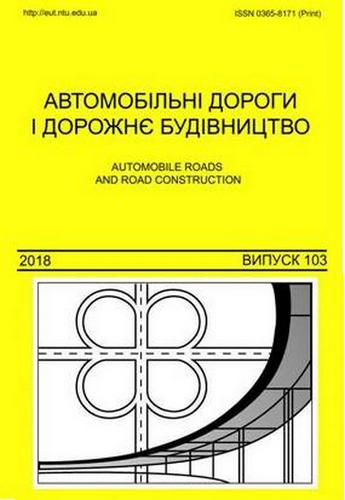
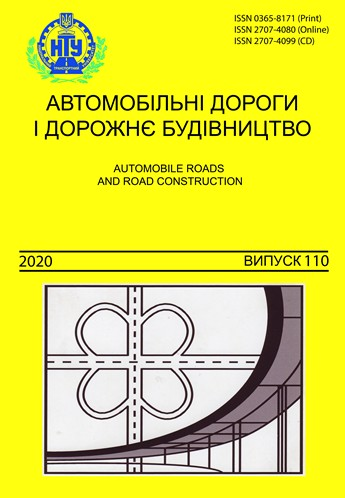
edit home

diff --git a/index.html b/index.html
@@ -93,55 +93,143 @@
 
           <!-- Preview Image -->
          <!-- <img class="img-medium rounded" src="images/upr-proekt.jpg" alt=""> --> <!--  img-fluid http://placehold.it/900x300-->
+         <div class="row">
+          <div class="col-lg-4">
+              <strong>ISSN 0365-8171 (Print)</strong>
+          </div>
 
-        <!--  <hr> -->
-               <h2 class="mt-4">Науково-технічний збірник “АВТОМОБІЛЬНІ ДОРОГИ І ДОРОЖНЄ БУДІВНИЦТВО”</h2>     
+          <div class="col-lg-4">
+            <strong>ISSN 2707-4080 (Оnline)</strong>
+          </div>
+          <div class="col-lg-4">
+            <strong>ISSN 2707-4099 (CD)</strong>
+          </div>
+      </div>
+          <hr> 
+
+          <div class="row">
+            <div class="col-lg-6">
+                <strong>Автомобільні дороги і дорожнє будівництво,</strong><br>
+                <strong>Науково-технічний збірник, </strong><br>
+                <strong>Випуск 110, 2020</strong><br>
+                <strong>Веб-сайт журналу: http://addb.ntu.edu.ua</strong><br>
+            </div>
+  
+            <div class="col-lg-6">
+              <strong>Заснований у 1964 році. </strong><br>
+              <strong>Свідоцтво суб’єкта видавничої справи </strong><br>
+              <strong>ДК № 1218 від 30.01.2003 р. </strong><br>
+            </div>
+        </div>
+        <hr> 
+                
           <!-- Post Content -->
-            
-            <p><strong>ISSN 0365-8171 (Print), URL: http://addb.ntu.edu.ua</strong></p>
+               
+           <img class="img-fluid float-left" src="images/avt-dorogi-bud-big1.jpg" alt="" > 
+               <p align="justify" >
+              У науково-технічному збірнику “Автомобільні дороги і дорожнє будівництво” відображені матеріали та наукові розробки вчених і спеціалістів 
+              дорожньо-будівельного комплексу, наукових установ і промисловості з вирішення сучасних задач та проблем з напрямків: Будівництво та цивільна 
+              інженерія; Геодезія та землеустрій; Гідротехнічне будівництво, водна інженерія та водні технології, Технології захисту навколишнього середовища, 
+              Екологічна безпека, Менеджмент, Маркетинг; Підприємництво, торгівля та біржова діяльність, Управління проектами і системний аналіз, 
+              Транспортні технології (за видами),  Економіка (за видами економічної діяльності).
+              </p>  
 
-            <p >Заснований у 1964 році</p>
-            <p><strong>Засновник:</strong> Національний транспортний університет</p>
-            <p align="justify">Свідоцтво про державну реєстрацію журналу – <strong>серія КВ № 9784 від 21.04.2005 р.</strong>, видане Державним комітетом телебачення та радіомовлення України.</p>
-           
-            <p><strong>Мова видання:</strong> українська, російська, англійська</p>
-            <p><strong>Тематика:</strong> Технічні науки</p>
+            <p align="justify">Друкується науково-технічний збірник “Автомобільні дороги і дорожнє будівництво” за рішенням Вченої ради Національного транспортного університету. 
+              Друковані примірники розповсюджуються серед: державних і провідних бібліотек України, провідних навчальних, наукових, науково-дослідних та проектних закладів дорожньо-транспортного спрямування; 
+              підприємств з будівництва, реконструкції, ремонту та експлуатації автомобільних доріг і аеродромів; установ до яких обов’язково повинні надсилатися видання, в яких опубліковані основні результати 
+              дисертаційних робіт
+               (<strong>Наказом Міністерства освіти і науки України від 11.07.2016 № 820 збірник включений до Переліку наукових фахових видань України</strong>).</p>
             
-            <div class="row">
-                        <div class="col-lg-6">
-                            <ul class="list-unstyled">
-                                <li ><p align="center"><img class="img-fluid rounded" src="images/avt-dorogi-bud-big.jpg" alt=""></p>
-                                </li>
-                                <li><p align="center" class="small">
-                                    </p>
-                                </li>
-                                
-                            </ul>
-                        </div>
-                        <div class="col-lg-6">
-                            <ul class="list-unstyled">
-                                <li><p align="center"><img class="img-fluid rounded" src="images/avt-dorogi-bud-1.jpg" alt=""></p>
-                                </li>
-                                <li><p align="center" class="small">
-                                    </p>
-                                </li>
-                               
-                            </ul>
-                        </div>
-                    </div>
-            <!-- /.row -->
-
-            <p align="justify">Мета видання науково-технічного збірника “Автомобільні дороги і дорожнє будівництво” – висвітляння результатів теоретичних та експериментальних досліджень в галузях: розвідування, проектування доріг та переходів через водотоки; дорожньо-будівельні матеріали та вироби; будівництво та експлуатація доріг і аеродромів; економіка дорожньо-будівельного виробництва, технічна експертиза та оцінка майна; будівельна механіка та системний аналіз; транспортні споруди; транспортні технології та безпека руху; дорожньо-будівельна техніка та виробнича база будівництва; екологія та охорона навколишнього середовища тощо.</p>
-            
-            <p align="justify">Науково-технічний збірник призначений для науковців, працівників науково-дослідних інститутів, проектних і будівельних організацій, а також викладачів і студентів ВНЗ.</p>
-            
-            <p align="justify">
-                Друковані примірники розповсюджуються серед: державних і провідних бібліотек України, провідних навчальних, наукових, науково-дослідних та проектних закладів дорожньо-транспортного спрямування; підприємств з будівництва, реконструкції, ремонту та експлуатації автомобільних доріг і аеродромів; установ до яких обов’язково повинні надсилатися видання, в яких опубліковані основні результати дисертаційних робіт (<strong>Наказом Міністерства освіти і науки України від 11.07.2016 № 820 збірник включений до Переліку наукових фахових видань України</strong>).
-            </p>
-            
-            <p align="justify">Друкується науково-технічний збірник “Автомобільні дороги і дорожнє будівництво” за рішенням Вченої ради Національного транспортного університету. </p>
+            <p align="center">Електронна копія збірника “Автомобільні дороги і дорожнє будівництво” розміщується на сайті Національної бібліотеки України імені В. І. Вернадського НАН України у розділі 
+              “Наукова періодика України” (для періодичних друкованих наукових фахових видань), 
+              на <a href="http://publications.ntu.edu.ua/avtodorogi_i_stroitelstvo/avtodorogi_i_stroitelstvo.html">сайті</a> Національного транспортного  
+                університету  і <a href="archives.html">сайті</a> міжнародного науково-технічного збірника «Автомобільні дороги і дорожнє будівництво».
+  
+           </p>   
        
-          
+           <h4>РЕДАКЦІЙНА РАДА </h4>
+           <p align="justify" class="small" >
+            <strong>Савенко В.Я.,</strong> д.т.н., професор, (голова), 
+            <strong>Славінська О.С.,</strong> д.т.н., професор, (заступник голови), 
+            <strong>Петрович В.В.,</strong> к.т.н., професор, старший науковий співробітник, (секретар), 
+            <strong>Бондар Н.М.,</strong> д.е.н., професор. 
+            <strong>Гамеляк І.П.,</strong> д.т.н., професор, 
+            <strong>Каськів В.І.,</strong> к.т.н., доцент, 
+            <strong>Усиченко О.Ю.,</strong> к.т.н., професор, 
+            <strong>Чечуга О.С.,</strong> к.т.н., доцент.
+           </p>
+
+           <h4>РЕДАКЦІЙНА КОЛЕГІЯ </h4>
+           <p align="justify"  class="small">
+            <strong>Савенко В.Я.,</strong> д.т.н., професор, (головний редактор), НТУ (Київ), 
+            <strong>Славінська О.С.,</strong> д.т.н., професор, (заступник головного редактора), НТУ (Київ), 
+            <strong>Петрович В.В.,</strong> к.т.н., професор, старший науковий співробітник, (відповідальний секретар), НТУ (Київ), 
+            <strong>Гамеляк І.П.,</strong> д.т.н., професор, (відповідальний редактор), НТУ (Київ), Бондар Н.М. д.е.н., професор. (відповідальний редактор),НТУ (Київ)
+           </p>
+
+           <p align="justify"  class="small">
+            <strong>Батракова А.Г.,</strong> д.т.н., професор, ХНАДУ (Харків), 
+            <strong>Безуглий А.О.,</strong> к.е.н., доцент, ДП “ДерждорНДІ” (Київ), 
+            <strong>Білокінь А.І.,</strong> д.т.н., професор, ПДАБА (Дніпро), 
+            <strong>Бондаренко Е.Л.,</strong> д.геогр.н., професор, НТУ, Київський національний університет імені Тараса Шевченка (Київ), 
+            <strong>Бондаренко Л.П.,</strong> к.т.н., доцент, НТУ (Київ), 
+            <strong>Бубела А.В.,</strong> к.т.н., доцент, НТУ (Київ), 
+            <strong>Внукова Н.В,</strong> д.т.н., професор, ХНАДУ (Харків), 
+            <strong>Воркут Т.А.,</strong> д.т.н., професор, НТУ (Київ), 
+            <strong>Гавриленко В.В.,</strong> д.ф-м.н., професор, НТУ (Київ), 
+            <strong>Гасенко Л.В.,</strong> к.т.н., доцент, Національний університет «Полтавська політехніка імені Юрія Кондратюка», (Полтава), 
+            <strong>Гончаренко Ф.П.,</strong> к.т.н., доцент, ДП "Український державний інститут з проектування об'єктів дорожнього господарсьва"”(Київ), 
+            <strong>Гречан А.В.,</strong> д.е.н., професор, НТУ (Київ),  
+            <strong>Гуляєв В.І.,</strong> д.т.н., професор, НТУ (Київ), 
+            <strong>Дмитриченко А.М.,</strong> к.т.н., доцент, НТУ (Київ), 
+            <strong>Жданюк В.К.,</strong> д.т.н., професор, ХНАДУ (Харків), 
+            <strong>Золотарьов В.О.,</strong> д.т.н., професор, ХНАДУ (Харків), 
+            <strong>Кірічек Ю.О.,</strong> д.т.н., професор, ПДАБА (Дніпро), 
+            <strong>Кіяшко І.В.,</strong> к.т.н., професор, ХНАДУ (Київ), 
+            <strong>Ковальчук В.П.,</strong> д.т.н., Інститут водних проблем і меліорації Національної академія аграрних наук України,(Київ),  
+            <strong>Концева В.В.,</strong> к. е. н, доцент, НТУ (Київ),  
+            <strong>Кузло М.Т.,</strong> д.т.н., професор, НУВГП (Рівне), 
+            <strong>Лантух-Лященко А.І.,</strong> д.т.н., професор, НТУ (Київ), 
+            <strong>Лоза І.А.,</strong> д.ф-м.н., професор, НТУ (Київ), 
+            <strong>Ломотько Д.В.,</strong> д.т.н., професор, УДУЗТ (Харків), 
+            <strong>Ляшенко Д.О.,</strong> д.геогр.н., доцент, НТУ (Київ), 
+            <strong>Маланчук М.С.,</strong> д.т.н., доцент, НУ “Львівська політехніка” (Львів), 
+            <strong>Мамонов К.А.,</strong> д.е.н., професор, ХНУМГ ім. О.М. Бекетова (Харків), 
+            <strong>Марчук О.В.,</strong> д.т.н., професор, НТУ (Київ), 
+            <strong>Матейчик В.П.,</strong> д.т.н.. професор, НТУ (Київ), 
+            <strong>Мішутін А.В.,</strong> д.т.н., професор, ОДАБА (Одеса), 
+            <strong>Меленчук Т.М.,</strong> д.т.н., доцент, Одеська державна академія технічного регулювання та якості (Одеса), 
+            <strong>Могільний С.Г.,</strong> д.т.н., професор, ПДАБА (Дніпро), 
+            <strong>Мозговий В.В.,</strong> д.т.н., професор, НТУ (Київ), 
+            <strong>Нагайчук В.М.,</strong> к.т.н., доцент, ДП “ДерждорНДІ” (Київ), 
+            <strong>Павлюк Д.О.,</strong> д.т.н., професор, НТУ (Київ), 
+            <strong>Разумова К.М.,</strong> д.е.н., професор.НАУ (Київ),  
+            <strong>Романенко В.Д.,</strong> д.т.н., професор, Навчально-науковий комплекс «Інститут прикладного системного аналізу» Національного технічного університету України «Київський політехнічний інститут імені Ігоря Сікорського, 
+            <strong>Семко О.В.,</strong> д.т.н., професор, Національний університет «Полтавська політехніка імені Юрія Кондратюка», (Полтава),  
+            <strong>Смірнова Н.В.,</strong> д.т.н., професор, ХНАДУ (Харків), 
+            <strong>Снісаренко В.І,</strong> д.т.н., професор, НДІ «Підземспецбуд» (Київ), 
+            <strong>Соколова Н.М.,</strong> к.е.н., доцент, НТУ (Київ), 
+            <strong>Солодкий С.Й.,</strong> д.т.н., професор, НУ “Львівська політехніка” (Львів), 
+            <strong>Толмачев С.М.,</strong> д.т.н., професор, ХНАДУ (    Харків), 
+            <strong>Угненко Є.Б.,</strong> д.т.н., професор, УДУЗТ (Харків), 
+            <strong>Ужвієва О.М.,</strong> к.т.н., доцент, УДУЗТ (Харків), 
+            <strong>Файнлейб О.М.,</strong> член-кореспондент НАН, д.хім.н, професор, Інститут хімії високомолекулярних сполук НАН України (Київ), 
+            <strong>Харченко А.М.,</strong> к.т.н., доцент, НТУ (Київ), 
+            <strong>Хрутьба В.О.,</strong> д.т.н., НТУ доцент, (Київ), 
+            <strong>Шматков Г.Г.,</strong> д.б.н., професор, ПДАБА (Дніпро), 
+            <strong>Яковишина Т.Ф.,</strong> д.т.н., професор, ПДАБА (Дніпро), 
+            <strong>Riheb Hadji,</strong> Ph.D., Department of Earth Sciences, Ferhat Abbas University of Setif, 19000 Setif, (<strong><I>Algeria</I></strong>), 
+            <strong>Wen Mingming,</strong> Ph.D., Dean of the Human resource management Department, (<strong><I>China</I></strong>), 
+            <strong>Bozho Soldo,</strong> Ph.D., Head of Departament of civil Engineering, (<strong><I>Croatia</I></strong>), 
+            <strong>Ferhat Hammoum,</strong> Directeur du laboratoire Matériaux pour les Infrastructures de Transport, (<strong><I>France</I></strong>), 
+            <strong>Carlo Giavarini,</strong> Prof. Full professor of Industrial and Technological Chemistry of "La Sapienza" University in (<strong><I>Italia</I></strong>), 
+            <strong>Телтаєв Багдат Бурханбайули,</strong> доктор технічних наук, професор, президент КаздорНДІ, (<strong><I>Казахстан</I></strong>), 
+            <strong>Jūratė Sužiedelytė Visockienė,</strong> Prof.  Dr. Vilnius Gediminas Technical University, Faculty of Environmental Engineering 
+            Head of Department Geodesy and Cadastre Department of Geodesy and Cadastre Vilnius (<strong><I>Lithuania</I></strong>), 
+            <strong>Renata Kotynia,</strong> Prof. PŁ, Lodz University of Technology. (<strong><I>Poland</I></strong>), 
+            <strong>Younes Hamed,</strong> Ph.D., Associate Professor, Faculty of Science of Gafsa FSGF Department of Earth Sciences, (<strong><I>Tunisia</I></strong>), 
+            <strong>Lev Khazanovich,</strong> Professor at University of Pittsburgh, Department of Civil and Environmental Engineering, (<strong><I>USA</I></strong>) 
+           </p>
 
           <hr>
 

diff --git a/pages/historicalnotes.html b/pages/historicalnotes.html
@@ -232,7 +232,10 @@
             
             <p align="justify">Друкується науково-технічний збірник “Автомобільні дороги і дорожнє будівництво” за рішенням Вченої ради Національного транспортного університету. Друковані примірники розповсюджуються серед: державних і провідних бібліотек України, провідних навчальних, наукових, науково-дослідних та проектних закладів дорожньо-транспортного спрямування; підприємств з будівництва, реконструкції, ремонту та експлуатації автомобільних доріг і аеродромів; установ до яких обов’язково повинні надсилатися видання, в яких опубліковані основні результати дисертаційних робіт (<strong>Наказом Міністерства освіти і науки України від 11.07.2016 № 820 збірник включений до Переліку наукових фахових видань України</strong>). </p>   
             
-            <p align="justify">Електронна копія збірника “Автомобільні дороги і дорожнє будівництво” розміщується на сайті Національної бібліотеки України імені В. І. Вернадського НАН України у розділі “Наукова періодика України” (для періодичних друкованих наукових фахових видань), на <a href="http://publications.ntu.edu.ua/avtodorogi_i_stroitelstvo/avtodorogi_i_stroitelstvo.html">сайті</a> Національного транспортного  університету  і <a href="archives.html">сайті</a> міжнародного науково-технічного збірника «Автомобільні дороги і дорожнє будівництво».
+            <p align="justify">Електронна копія збірника “Автомобільні дороги і дорожнє будівництво” розміщується на сайті Національної бібліотеки України 
+              імені В. І. Вернадського НАН України у розділі “Наукова періодика України” (для періодичних друкованих наукових фахових видань), 
+              на <a href="http://publications.ntu.edu.ua/avtodorogi_i_stroitelstvo/avtodorogi_i_stroitelstvo.html">сайті</a> Національного транспортного  
+              університету  і <a href="archives.html">сайті</a> міжнародного науково-технічного збірника «Автомобільні дороги і дорожнє будівництво».
 
          </p>   
               
